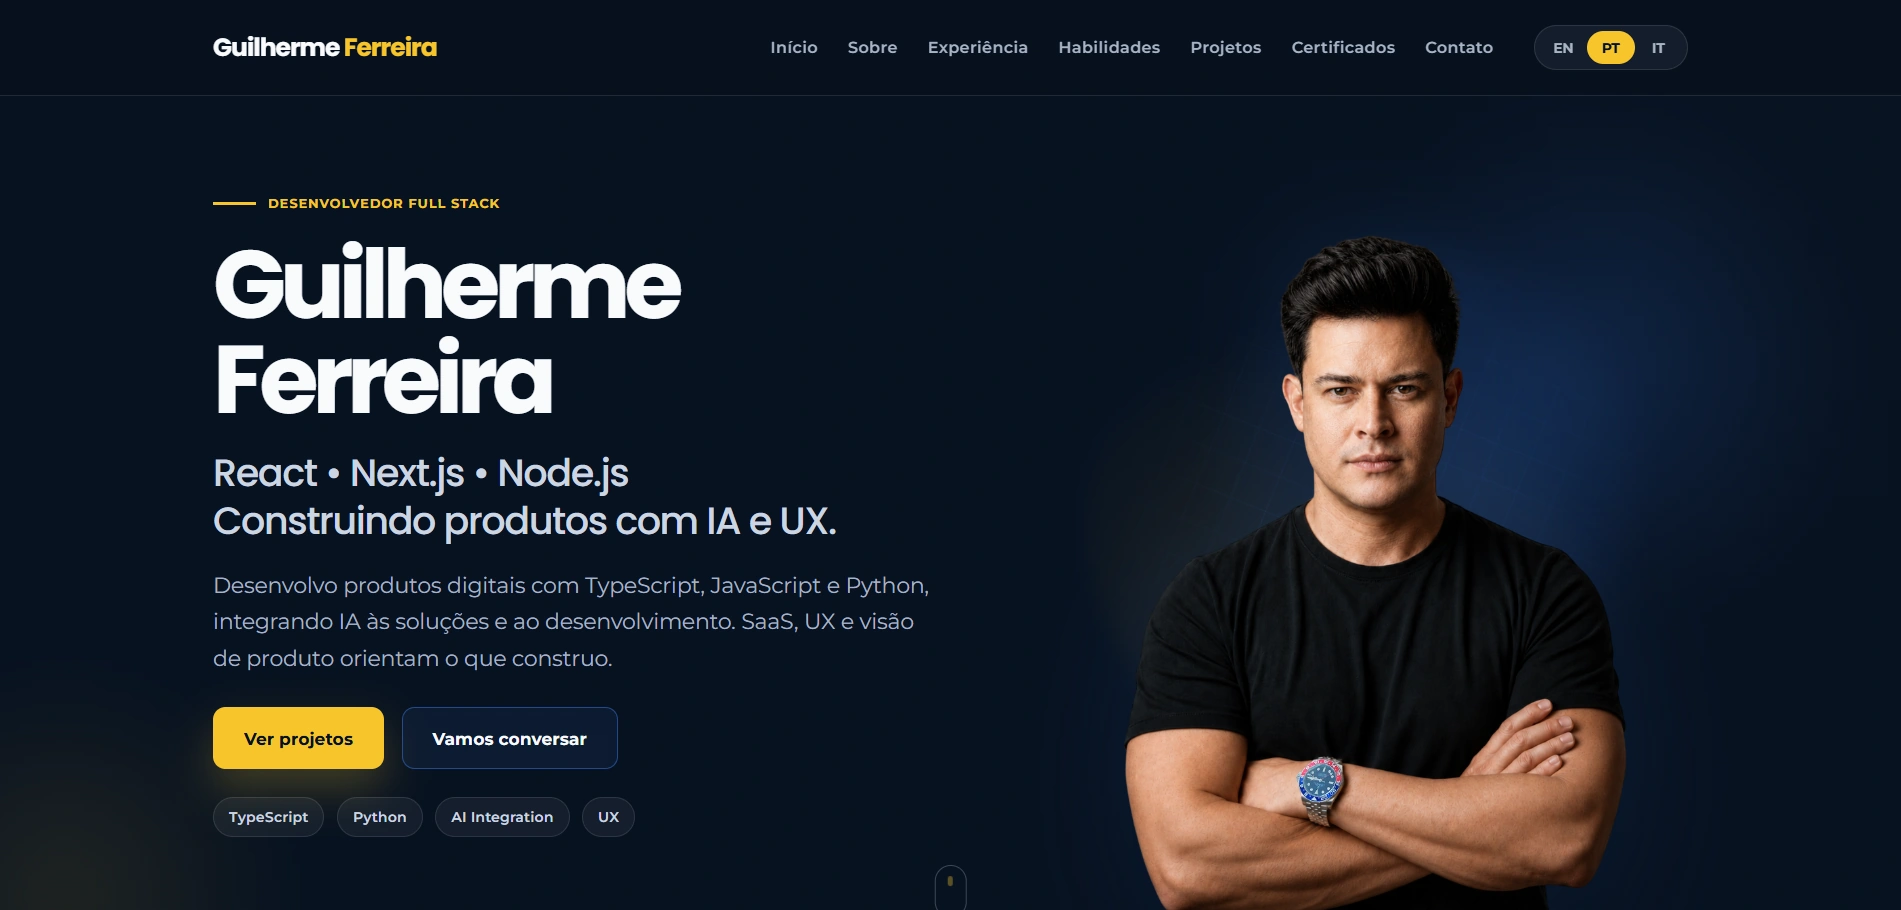
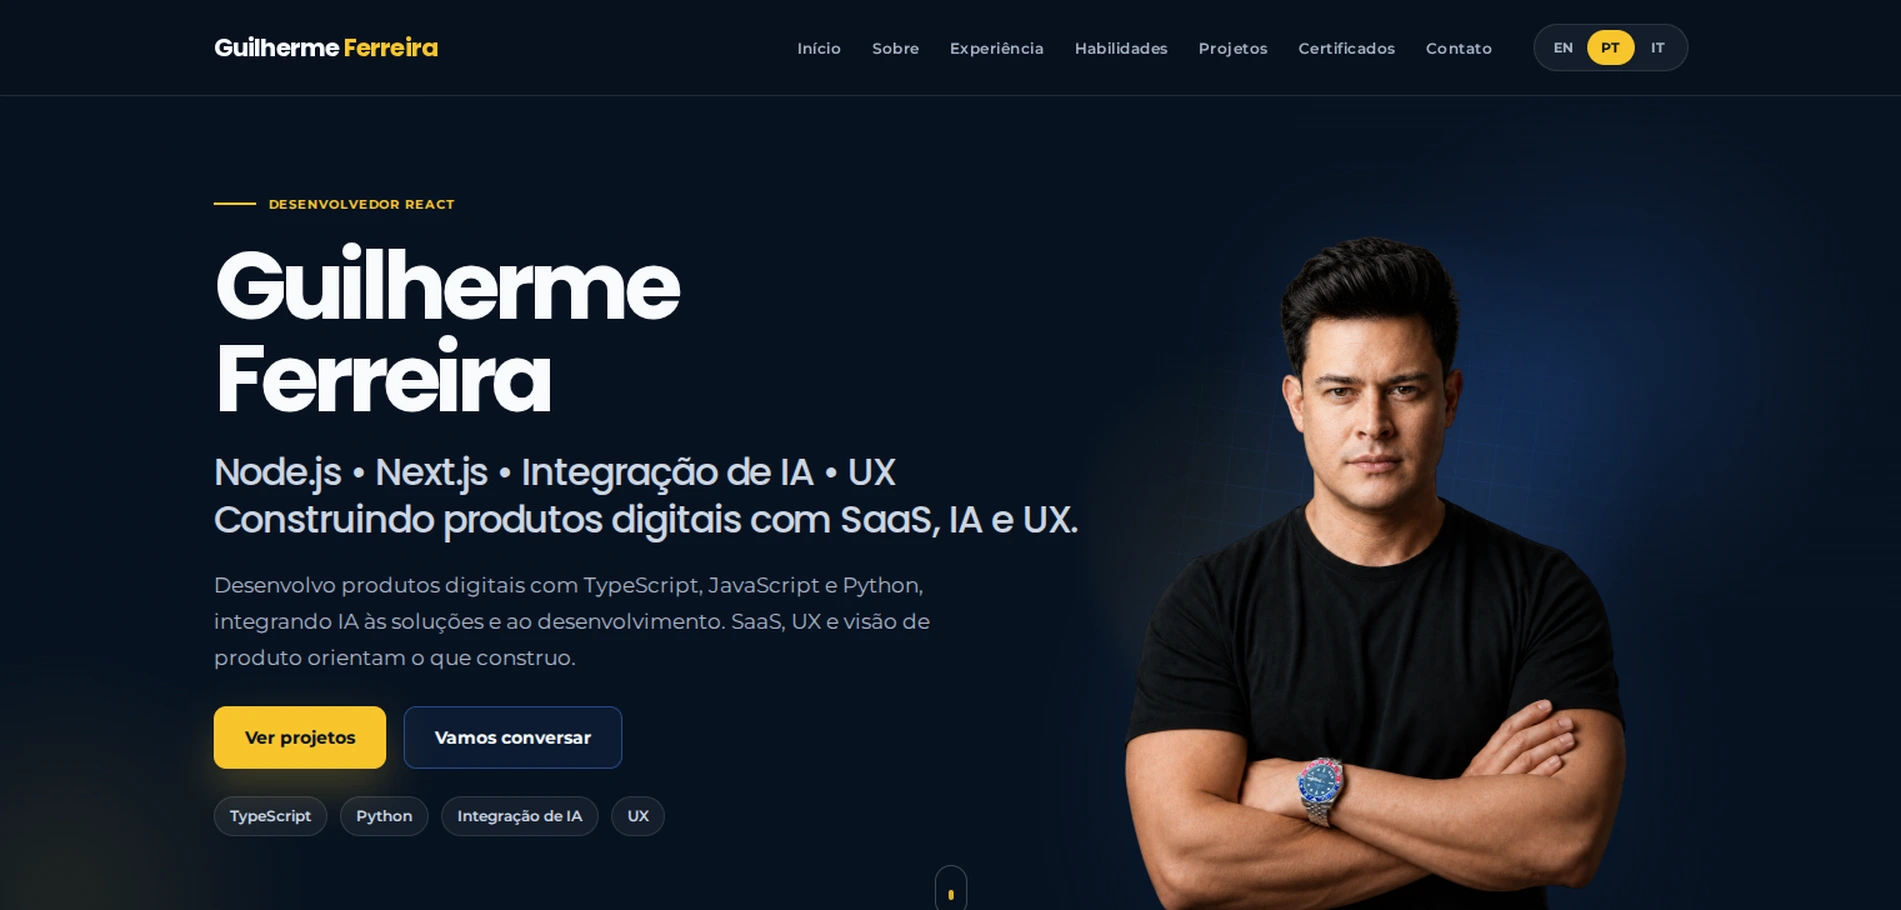
Reposition portfolio as React Developer across EN, PT and IT

diff --git a/src/App.tsx b/src/App.tsx
@@ -398,7 +398,7 @@ const contactTranslations = {
     whatsappText: "Send a message",
     backToTop: "Back to top",
     developedBy: "Developed by",
-    role: "Full Stack Developer • React, Next.js, Node.js • AI & UX",
+    role: "React Developer • Node.js • Next.js • AI Integration • UX",
     rights: "All rights reserved.",
     labels: {
       email: "Email",
@@ -417,7 +417,7 @@ const contactTranslations = {
     whatsappText: "Enviar mensagem",
     backToTop: "Voltar ao topo",
     developedBy: "Desenvolvido por",
-    role: "Desenvolvedor Full Stack • React, Next.js, Node.js • IA e UX",
+    role: "Desenvolvedor React • Node.js • Next.js • Integração de IA • UX",
     rights: "Todos os direitos reservados.",
     labels: {
       email: "E-mail",
@@ -436,7 +436,7 @@ const contactTranslations = {
     whatsappText: "Invia un messaggio",
     backToTop: "Torna all'inizio",
     developedBy: "Sviluppato da",
-    role: "Sviluppatore Full Stack • React, Next.js, Node.js • IA e UX",
+    role: "Sviluppatore React • Node.js • Next.js • Integrazione AI • UX",
     rights: "Tutti i diritti riservati.",
     labels: {
       email: "E-mail",
@@ -458,19 +458,19 @@ const translations = {
     navContact: "Contact",
     openMenu: "Open menu",
     closeMenu: "Close menu",
-    heroKicker: "Full Stack Developer",
+    heroKicker: "React Developer",
     heroName: "Guilherme Ferreira",
-    heroTitle: ["React • Next.js • Node.js", "Building products with AI and UX."],
+    heroTitle: ["Node.js • Next.js • AI Integration • UX", "Building digital products with SaaS, AI and UX."],
     heroDescription:
       "I develop digital products with TypeScript, JavaScript and Python, integrating AI into solutions and my development workflow. SaaS, UX and product thinking guide what I build.",
     viewProjects: "View projects",
     contactMe: "Let's talk",
     aboutEyebrow: "About",
-    aboutTitle: "Full Stack development with product vision.",
+    aboutTitle: "React development with product vision.",
     aboutLead:
-      "I am a Full Stack Developer focused on React, Next.js, Node.js and TypeScript. I use JavaScript and Python, integrate AI and use it in development, and work with APIs, databases and Azure DevOps to build SaaS products with attention to user experience.",
+      "I am a React Developer building web applications with React, Next.js, Node.js and TypeScript, also using JavaScript, Python, APIs, PostgreSQL and MongoDB. I build SaaS solutions and organize requirements and technical deliveries in Azure DevOps. AI-assisted development helps me accelerate implementation and automate tasks, with technical decisions and validation under human responsibility.",
     aboutText:
-      "At nexso, I develop software, APIs and automations, connecting implementation with UX and product discovery. My earlier experience of more than 12 years in leadership, operations, education and process improvement helps me understand people and business needs and make practical development decisions.",
+      "At nexso, I develop software, APIs and automations, using UX and Product Discovery to understand user needs, clarify requirements and support implementation decisions. My earlier experience of more than 12 years in leadership, operations, education and process improvement helps me understand people and business needs and make practical development decisions.",
     metricYears: "years leading projects and improving processes",
     metricStudents: "students in an academic operation structured and scaled",
     metricFranchises: "franchises assessed for national expansion",
@@ -503,13 +503,7 @@ const translations = {
             name: "React + TypeScript",
             level: 3,
             levelLabel: "Practical",
-            evidence: "Portfolio 2.0 and component-based interfaces.",
-          },
-          {
-            name: "JavaScript",
-            level: 3,
-            levelLabel: "Practical",
-            evidence: "Torcida Brasil, To-do List and browser interactions.",
+            evidence: "Portfolio 2.0, Vite and component-based interfaces.",
           },
           {
             name: "Next.js",
@@ -518,10 +512,16 @@ const translations = {
             evidence: "Agência Aurora, StepZone and PetCare.",
           },
           {
+            name: "JavaScript",
+            level: 3,
+            levelLabel: "Practical",
+            evidence: "Torcida Brasil, To-do List and browser interactions.",
+          },
+          {
             name: "HTML + CSS",
             level: 3,
             levelLabel: "Practical",
-            evidence: "Responsive layouts, accessibility and visual identity.",
+            evidence: "Responsive layouts, Tailwind CSS, accessibility and visual identity.",
           },
         ],
       },
@@ -566,7 +566,7 @@ const translations = {
               "Discovery, personas, requirements and experience decisions at nexso.",
           },
           {
-            name: "AI Integration",
+            name: "AI Integration + AI-Assisted Development",
             level: 3,
             levelLabel: "Practical",
             evidence:
@@ -600,19 +600,19 @@ const translations = {
     navContact: "Contato",
     openMenu: "Abrir menu",
     closeMenu: "Fechar menu",
-    heroKicker: "Desenvolvedor Full Stack",
+    heroKicker: "Desenvolvedor React",
     heroName: "Guilherme Ferreira",
-    heroTitle: ["React • Next.js • Node.js", "Construindo produtos com IA e UX."],
+    heroTitle: ["Node.js • Next.js • Integração de IA • UX", "Construindo produtos digitais com SaaS, IA e UX."],
     heroDescription:
       "Desenvolvo produtos digitais com TypeScript, JavaScript e Python, integrando IA às soluções e ao desenvolvimento. SaaS, UX e visão de produto orientam o que construo.",
     viewProjects: "Ver projetos",
     contactMe: "Vamos conversar",
     aboutEyebrow: "Sobre",
-    aboutTitle: "Desenvolvimento Full Stack com visão de produto.",
+    aboutTitle: "Desenvolvimento React com visão de produto.",
     aboutLead:
-      "Sou Desenvolvedor Full Stack com foco em React, Next.js, Node.js e TypeScript. Utilizo JavaScript e Python, integro IA e a utilizo no desenvolvimento, e trabalho com APIs, bancos de dados e Azure DevOps para construir produtos SaaS com atenção à experiência do usuário.",
+      "Sou Desenvolvedor React e construo aplicações web com React, Next.js, Node.js e TypeScript, utilizando também JavaScript, Python, APIs, PostgreSQL e MongoDB. Desenvolvo soluções SaaS e organizo requisitos e entregas técnicas no Azure DevOps. O desenvolvimento assistido por IA ajuda a acelerar implementações e automatizar tarefas, com decisões técnicas e validações sob responsabilidade humana.",
     aboutText:
-      "Na nexso, desenvolvo software, APIs e automações, conectando implementação, UX e discovery de produto. Minha experiência anterior de mais de 12 anos em liderança, operações, educação e melhoria de processos contribui para compreender pessoas e necessidades de negócio e tomar decisões práticas no desenvolvimento.",
+      "Na nexso, desenvolvo software, APIs e automações, utilizando UX e Product Discovery para compreender necessidades dos usuários, esclarecer requisitos e apoiar decisões de implementação. Minha experiência anterior de mais de 12 anos em liderança, operações, educação e melhoria de processos contribui para compreender pessoas e necessidades de negócio e tomar decisões práticas no desenvolvimento.",
     metricYears: "anos liderando projetos e aprimorando processos",
     metricStudents: "alunos em uma operação acadêmica estruturada e escalada",
     metricFranchises: "franquias analisadas para uma expansão nacional",
@@ -645,13 +645,7 @@ const translations = {
             name: "React + TypeScript",
             level: 3,
             levelLabel: "Prática",
-            evidence: "Portfólio 2.0 e interfaces componentizadas.",
-          },
-          {
-            name: "JavaScript",
-            level: 3,
-            levelLabel: "Prática",
-            evidence: "Torcida Brasil, To-do List e interações no navegador.",
+            evidence: "Portfólio 2.0, Vite e interfaces componentizadas.",
           },
           {
             name: "Next.js",
@@ -660,11 +654,17 @@ const translations = {
             evidence: "Agência Aurora, StepZone e PetCare.",
           },
           {
+            name: "JavaScript",
+            level: 3,
+            levelLabel: "Prática",
+            evidence: "Torcida Brasil, To-do List e interações no navegador.",
+          },
+          {
             name: "HTML + CSS",
             level: 3,
             levelLabel: "Prática",
             evidence:
-              "Layouts responsivos, acessibilidade e identidade visual.",
+              "Layouts responsivos, Tailwind CSS, acessibilidade e identidade visual.",
           },
         ],
       },
@@ -709,7 +709,7 @@ const translations = {
               "Discovery, personas, requisitos e decisões de experiência na nexso.",
           },
           {
-            name: "Integração de IA",
+            name: "Integração de IA + Desenvolvimento Assistido por IA",
             level: 3,
             levelLabel: "Prática",
             evidence:
@@ -743,19 +743,19 @@ const translations = {
     navContact: "Contatti",
     openMenu: "Apri menu",
     closeMenu: "Chiudi menu",
-    heroKicker: "Sviluppatore Full Stack",
+    heroKicker: "Sviluppatore React",
     heroName: "Guilherme Ferreira",
-    heroTitle: ["React • Next.js • Node.js", "Creo prodotti con IA e UX."],
+    heroTitle: ["Node.js • Next.js • Integrazione AI • UX", "Creo prodotti digitali con SaaS, IA e UX."],
     heroDescription:
       "Sviluppo prodotti digitali con TypeScript, JavaScript e Python, integrando IA nelle soluzioni e nel processo di sviluppo. SaaS, UX e visione di prodotto guidano ciò che costruisco.",
     viewProjects: "Vedi progetti",
     contactMe: "Parliamo",
     aboutEyebrow: "Chi sono",
-    aboutTitle: "Sviluppo Full Stack con visione di prodotto.",
+    aboutTitle: "Sviluppo React con visione di prodotto.",
     aboutLead:
-      "Sono uno Sviluppatore Full Stack con focus su React, Next.js, Node.js e TypeScript. Utilizzo JavaScript e Python, integro IA e la uso nello sviluppo, e lavoro con API, database e Azure DevOps per creare prodotti SaaS curando l’esperienza utente.",
+      "Sono uno Sviluppatore React e creo applicazioni web con React, Next.js, Node.js e TypeScript, utilizzando anche JavaScript, Python, API, PostgreSQL e MongoDB. Sviluppo soluzioni SaaS e organizzo requisiti e consegne tecniche in Azure DevOps. Lo sviluppo assistito da IA aiuta ad accelerare implementazioni e automatizzare attività, con decisioni tecniche e validazioni sotto responsabilità umana.",
     aboutText:
-      "In nexso sviluppo software, API e automazioni, collegando implementazione, UX e product discovery. La mia precedente esperienza di oltre 12 anni in leadership, operazioni, educazione e miglioramento dei processi mi aiuta a comprendere persone ed esigenze aziendali e a prendere decisioni concrete nello sviluppo.",
+      "In nexso sviluppo software, API e automazioni, utilizzando UX e Product Discovery per comprendere le esigenze degli utenti, chiarire i requisiti e supportare le decisioni di implementazione. La mia precedente esperienza di oltre 12 anni in leadership, operazioni, educazione e miglioramento dei processi mi aiuta a comprendere persone ed esigenze aziendali e a prendere decisioni concrete nello sviluppo.",
     metricYears: "anni alla guida di progetti e nel miglioramento dei processi",
     metricStudents:
       "studenti in una struttura accademica organizzata e ampliata",
@@ -793,13 +793,7 @@ const translations = {
             name: "React + TypeScript",
             level: 3,
             levelLabel: "Pratica",
-            evidence: "Portfolio 2.0 e interfacce basate su componenti.",
-          },
-          {
-            name: "JavaScript",
-            level: 3,
-            levelLabel: "Pratica",
-            evidence: "Torcida Brasil, To-do List e interazioni nel browser.",
+            evidence: "Portfolio 2.0, Vite e interfacce basate su componenti.",
           },
           {
             name: "Next.js",
@@ -808,10 +802,16 @@ const translations = {
             evidence: "Agência Aurora, StepZone e PetCare.",
           },
           {
+            name: "JavaScript",
+            level: 3,
+            levelLabel: "Pratica",
+            evidence: "Torcida Brasil, To-do List e interazioni nel browser.",
+          },
+          {
             name: "HTML + CSS",
             level: 3,
             levelLabel: "Pratica",
-            evidence: "Layout responsive, accessibilità e identità visiva.",
+            evidence: "Layout responsive, Tailwind CSS, accessibilità e identità visiva.",
           },
         ],
       },
@@ -856,7 +856,7 @@ const translations = {
             evidence: "Discovery, personas, requisiti e decisioni UX in nexso.",
           },
           {
-            name: "Integrazione IA",
+            name: "Integrazione AI + Sviluppo Assistito da IA",
             level: 3,
             levelLabel: "Pratica",
             evidence:
@@ -979,7 +979,16 @@ function App() {
   useEffect(() => {
     localStorage.setItem("portfolio-language", language);
     document.documentElement.lang = language;
-  }, [language]);
+    const title = `${copy.heroName} | ${copy.heroKicker}`;
+    const description = `${copy.heroKicker} | ${copy.heroTitle[0]} — TypeScript, JavaScript, Python, APIs, PostgreSQL, MongoDB, Azure DevOps, SaaS.`;
+    document.title = title;
+    for (const selector of ['meta[name="title"]', 'meta[property="og:title"]', 'meta[name="twitter:title"]']) {
+      document.querySelector(selector)?.setAttribute("content", title);
+    }
+    for (const selector of ['meta[name="description"]', 'meta[property="og:description"]', 'meta[name="twitter:description"]']) {
+      document.querySelector(selector)?.setAttribute("content", description);
+    }
+  }, [language, copy]);
 
   useEffect(() => {
     if (!isCertificateModalOpen) {
@@ -1125,7 +1134,7 @@ function App() {
               <div className="hero-tags" aria-label="Areas of expertise">
                 <span>TypeScript</span>
                 <span>Python</span>
-                <span>AI Integration</span>
+                <span>{copy.heroTitle[0].split(" • ")[2]}</span>
                 <span>UX</span>
               </div>
             </div>

diff --git a/index.html b/index.html
@@ -4,8 +4,15 @@
     <meta charset="UTF-8" />
     <link rel="icon" type="image/svg+xml" href="/favicon.svg" />
     <meta name="viewport" content="width=device-width, initial-scale=1.0" />
-    <meta name="description" content="Guilherme Ferreira — Full Stack Developer focused on React, Next.js, Node.js, TypeScript and Python, with AI integration, SaaS, UX and product vision." />
-    <title>Guilherme Ferreira | Full Stack Developer</title>
+    <meta name="description" content="Guilherme Ferreira — React Developer focused on React, Next.js, Node.js, TypeScript and Python, with AI integration, SaaS, UX and product vision." />
+    <meta name="title" content="Guilherme Ferreira | React Developer" />
+    <meta property="og:title" content="Guilherme Ferreira | React Developer" />
+    <meta property="og:description" content="React Developer | Node.js | Next.js | AI Integration | UX. TypeScript, JavaScript, Python, APIs, PostgreSQL, MongoDB, Azure DevOps and SaaS." />
+    <meta property="og:type" content="website" />
+    <meta name="twitter:card" content="summary" />
+    <meta name="twitter:title" content="Guilherme Ferreira | React Developer" />
+    <meta name="twitter:description" content="React Developer | Node.js | Next.js | AI Integration | UX. TypeScript, JavaScript, Python, APIs, PostgreSQL, MongoDB, Azure DevOps and SaaS." />
+    <title>Guilherme Ferreira | React Developer</title>
   </head>
   <body>
     <div id="root"></div>
